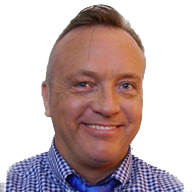
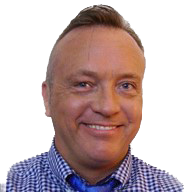
Corrects Peter.png

diff --git a/index.html b/index.html
@@ -103,7 +103,7 @@
           <div class="text">
             <p>OneStep Web-Development - Peter Easterbrook-</p>
           </div>
-          <img class="logo" src="images/Peter.png" alt="peter"></img>
+          <img class="logo" src="images/Peter1.png" alt="peter"></img>
         </div>
         <script>
           const text = document.querySelector('.text p');
